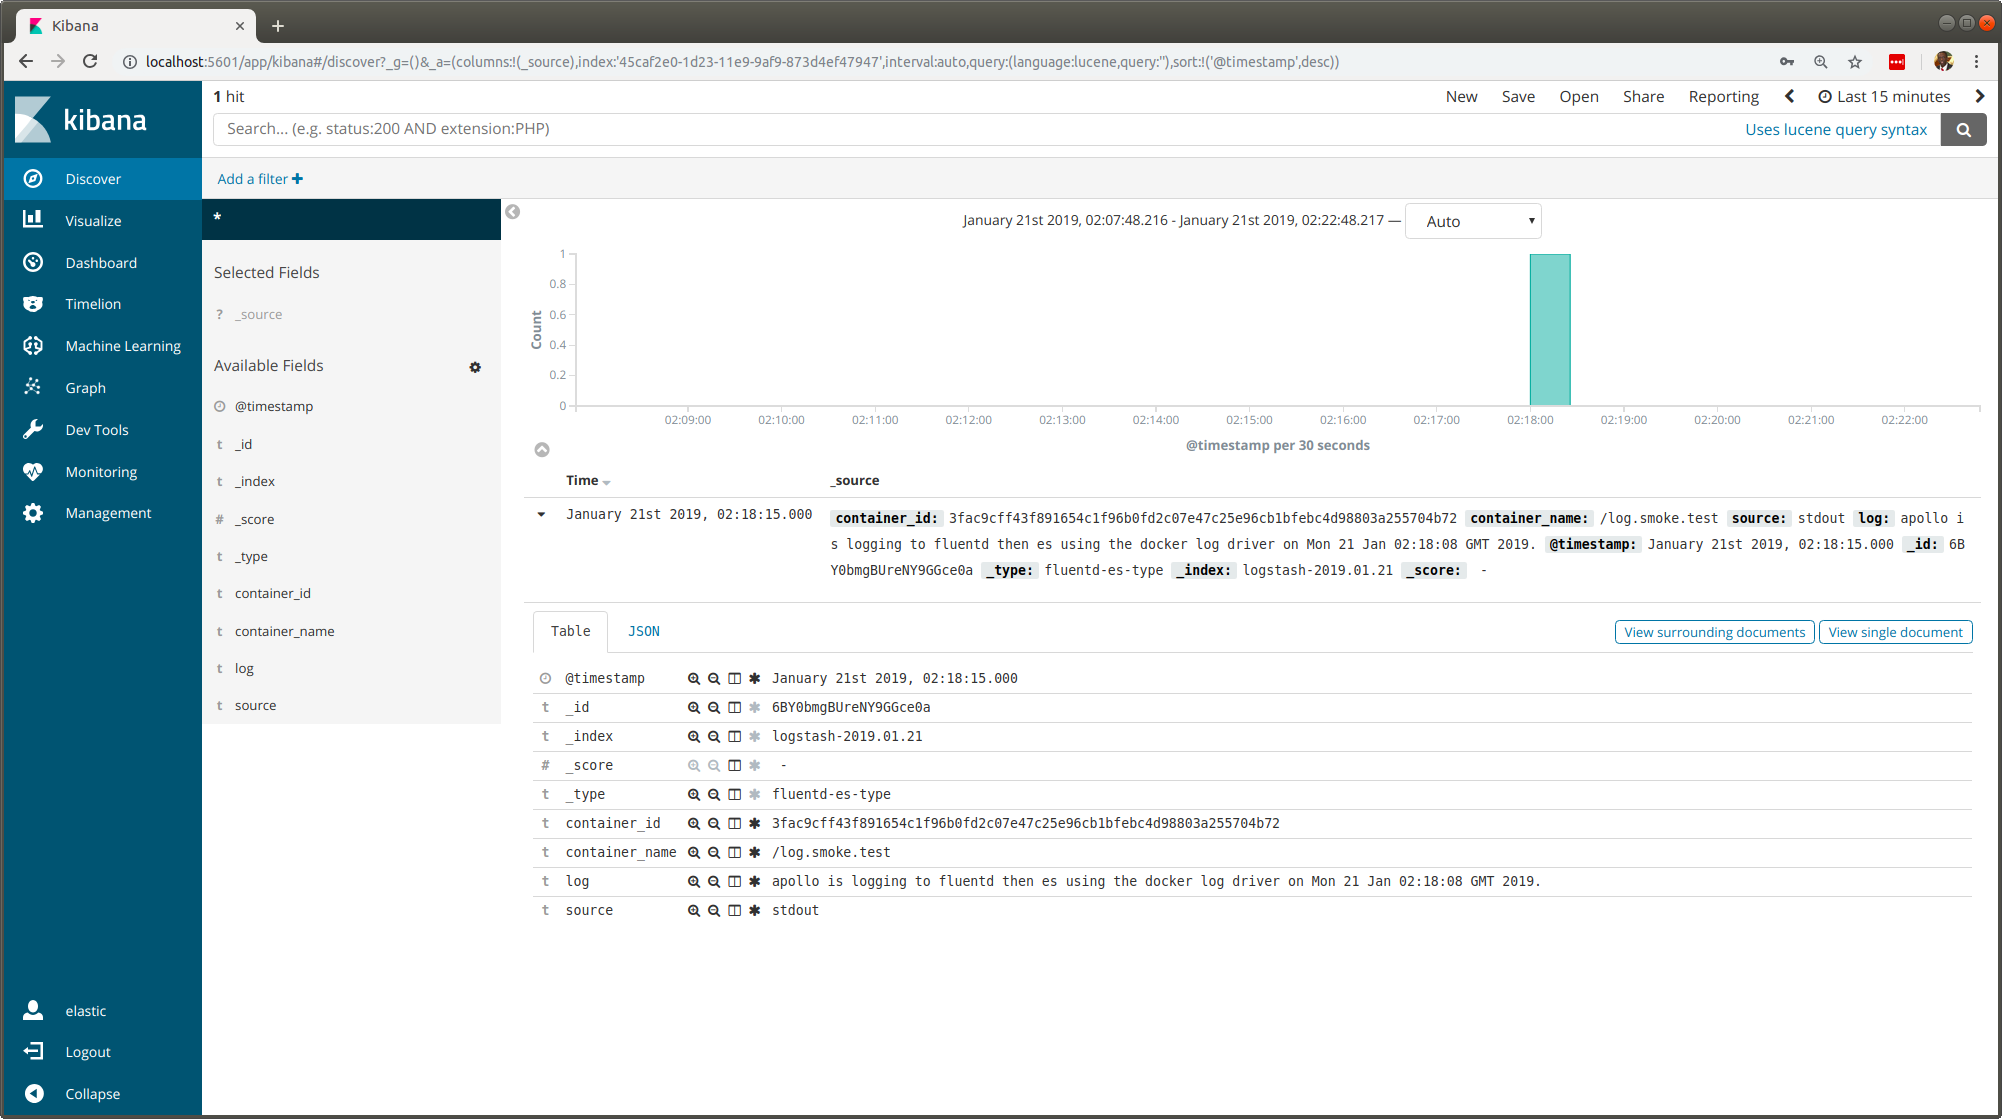
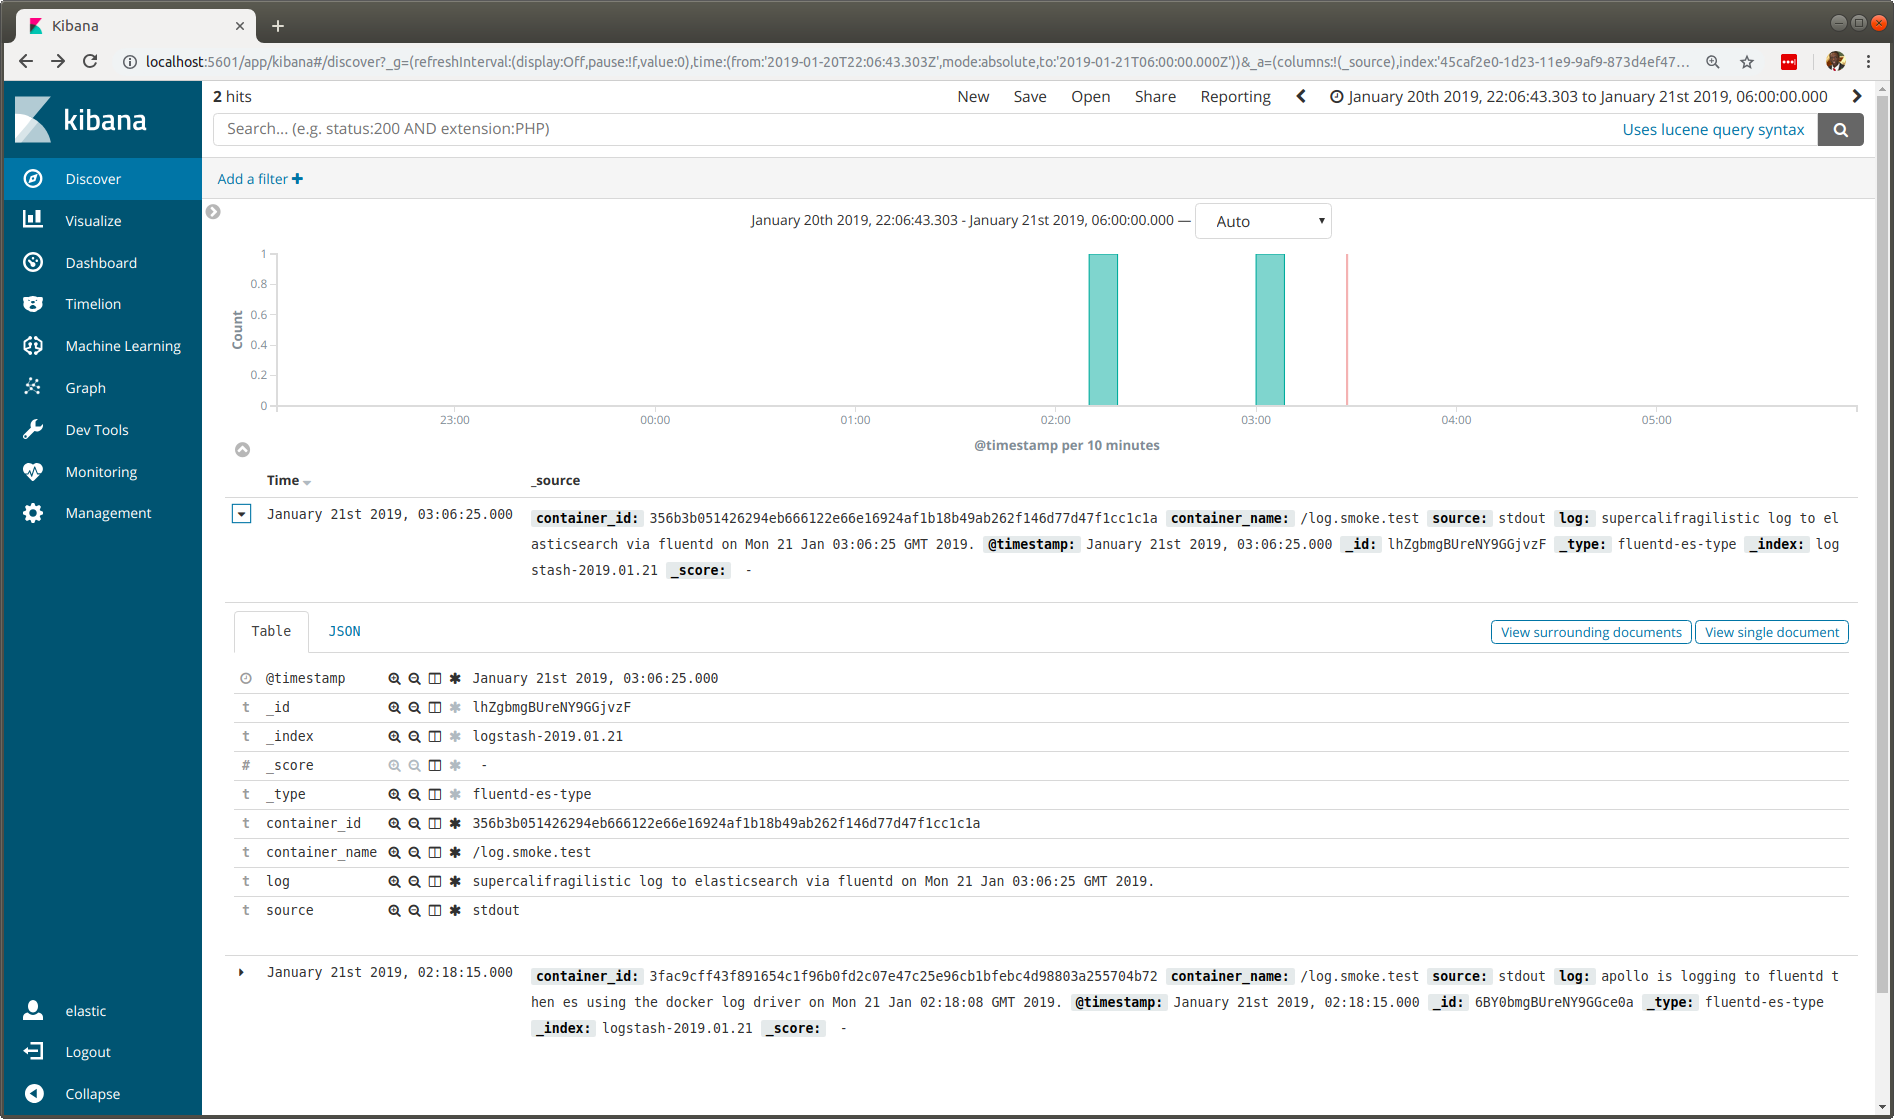
updated screenshot and completed use case documentation

diff --git a/README.md b/README.md
@@ -131,9 +131,7 @@ This query verifies that our **`supercalifragilistic`** log document is in the e
 }
 ```
 
-
 ---
-
 
 ## 5 | kibana visualize
 
@@ -143,28 +141,33 @@ The ***smoke test in step 4** used **`docker log-driver`** to write to our fluen
 - enter username **`elastic`**
 - enter password **`secret`**
 - click on **`Discover`**
+- find **`last 15 minutes`** at the top right
+- change to **`last 7 days`**
+
+Our **`supercalifragilistic`** log should appear.  Open it up with the little arrow or choose to view it in JSON.
+
+
+### kibana screenshot of log from docker container
 
 ![kibana screenshot of smoke test log](kibana-log-from-fluentd.png)
 
 ***The screenshot shows that our smoke test log is in the elasticsearch database and accessible via the Kibana visualization user interface.***
 
+---
 
 
+## Useful Commands
+
+```bash
 curl 'localhost:9200/logstash-2019.01.21/_doc/1?pretty' -u 'elastic:secret'
-
 curl 'localhost:9200/_search?q=apollo&pretty' -u 'elastic:secret'
-
 curl 'localhost:9200/_search?q=jenkins&pretty' -u 'elastic:secret'
-
 curl 'localhost:9200/logstash-2019.01.21/_mapping/group?pretty' -u 'elastic:secret'
-
 curl 'localhost:9200/logstash-2019.01.21/_mapping/group?pretty' -u 'elastic:secret'
-
 curl 'localhost:9200/_search?q=smoke&pretty' -u 'elastic:secret'
-
 curl 'localhost:9200/_search?q=jenkins&pretty' -u 'elastic:secret'
-
 curl 'localhost:9200/_cat/indices?v&pretty' -u 'elastic:secret'
+```
 
 
 #### `curl 'localhost:9200/_cat/indices?v&pretty' -u 'elastic:secret'`
@@ -180,9 +183,6 @@ yellow open   .kibana                         3aV5WqlIQoyBMWsqmYEFJg   1   1    
 yellow open   .monitoring-alerts-6            0fa4o5CARvCyFdejexm4yA   1   1          1            0      6.5kb          6.5kb
 yellow open   .watcher-history-6-2019.01.21   xn8EFUksTpOj0ZkDXA7dWw   1   1        406            0    562.8kb        562.8kb
 ```
-
-
-
 
 
 ```bash
@@ -215,8 +215,6 @@ curl 'localhost:9200/.watcher-history-6-2019.01.19/_search?q=*&pretty' -u 'elast
 ```
 
 
-
-
 ## ElasticSearch and S3
 
 #### excellent information
@@ -226,13 +224,6 @@ https://www.fluentd.org/guides/recipes/elasticsearch-and-s3
 https://raw.githubusercontent.com/fluent/fluentd-docker-image/master/v1.3/alpine-onbuild/fluent.conf
 
 https://www.fluentd.org/guides/recipes/docker-logging
-
-
-
-
-
-
-
 
 
 
